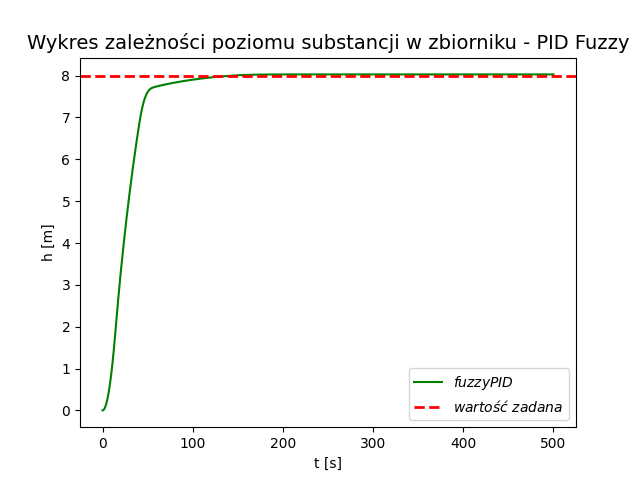
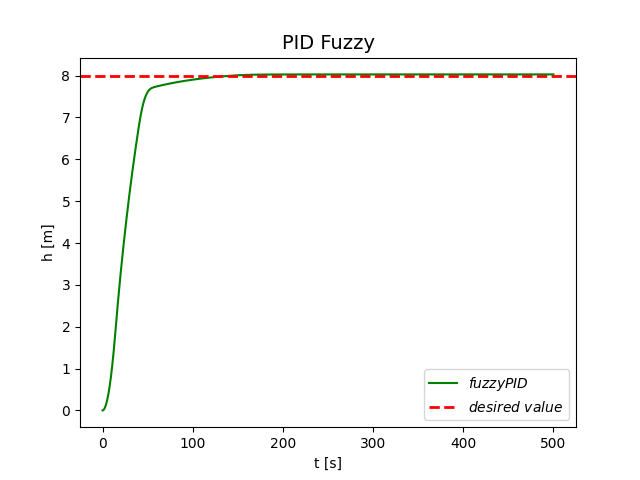
screenshots & minor backend upgrades

Changed region(s): [[0.0312, 0.0625, 1.0, 0.125], [0.6562, 0.75, 0.875, 0.8125], [0.625, 0.8438, 0.875, 0.875]]

diff --git a/pid-controller-flask-backend/app.py b/pid-controller-flask-backend/app.py
@@ -55,9 +55,10 @@ def generate_pid():
         )
         heavy_process.start()
         task_set.append(heavy_process)
-        return "Task dispatched successfully!", 201, {"Content-Type": "application/text"}
+        return jsonify({"message": "Task dispatched successfully!"}), 201, {"Content-Type": "application/json"}
     else:
-        return "Already dispatched!", 409, {"Content-Type": "application/text"}
+        return jsonify({"message": "Machine currently busy!"}), 409, {"Content-Type": "application/json"}
+
 
 @app.route('/generate-fuzzy', methods=['POST'])
 def generate_fuzzy():
@@ -69,9 +70,9 @@ def generate_fuzzy():
         )
         heavy_process.start()
         task_set.append(heavy_process)
-        return "Task dispatched successfully!", 201, {"Content-Type": "application/text"}
+        return jsonify({"message": "Task dispatched successfully!"}), 201, {"Content-Type": "application/json"}
     else:
-        return "Already dispatched!", 409, {"Content-Type": "application/text"}
+        return jsonify({"message": "Machine currently busy!"}), 409, {"Content-Type": "application/json"}
 
 @app.route('/generate-comparison', methods=['POST'])
 def generate_comparison():
@@ -83,9 +84,9 @@ def generate_comparison():
         )
         heavy_process.start()
         task_set.append(heavy_process)
-        return "Task dispatched successfully!", 201, {"Content-Type": "application/text"}
+        return jsonify({"message": "Task dispatched successfully!"}), 201, {"Content-Type": "application/json"}
     else:
-        return "Already dispatched!", 409, {"Content-Type": "application/text"}
+        return jsonify({"message": "Machine currently busy!"}), 409, {"Content-Type": "application/json"}
 
 @app.route('/get-pid-chart')
 def get_pid_chart():

diff --git a/pid-controller-flask-backend/PIDController.py b/pid-controller-flask-backend/PIDController.py
@@ -291,7 +291,7 @@ class PIDController:
         plt.ylabel('h [m]')
         plt.title(title, fontsize=14)
         plot_func()
-        plt.axhline(self.pid['h_z'][-1], label='$wartość\ zadana$', color='red', linewidth='2', linestyle='--')
+        plt.axhline(self.pid['h_z'][-1], label='$desired\ value$', color='red', linewidth='2', linestyle='--')
         plt.legend()
         plt.savefig('static/%s' % filename)
 
@@ -302,7 +302,7 @@ class PIDController:
         def draw_plot():
             plt.plot(self.x, self.pid['h'], label='$PID$', color='blue')
 
-        self.generate_chart("plot.png", "Wykres zależności poziomu substancji w zbiorniku - PID", draw_plot, 1)
+        self.generate_chart("plot.png", "Classic PID", draw_plot, 1)
         self.reset_data()
         print("Classic PID chart generation ended!")
 
@@ -315,7 +315,7 @@ class PIDController:
 
         self.generate_chart(
             "fuzzy_chart.png",
-            "Wykres zależności poziomu substancji w zbiorniku - PID Fuzzy",
+            "PID Fuzzy",
             draw_plot, 2
         )
         self.reset_data()
